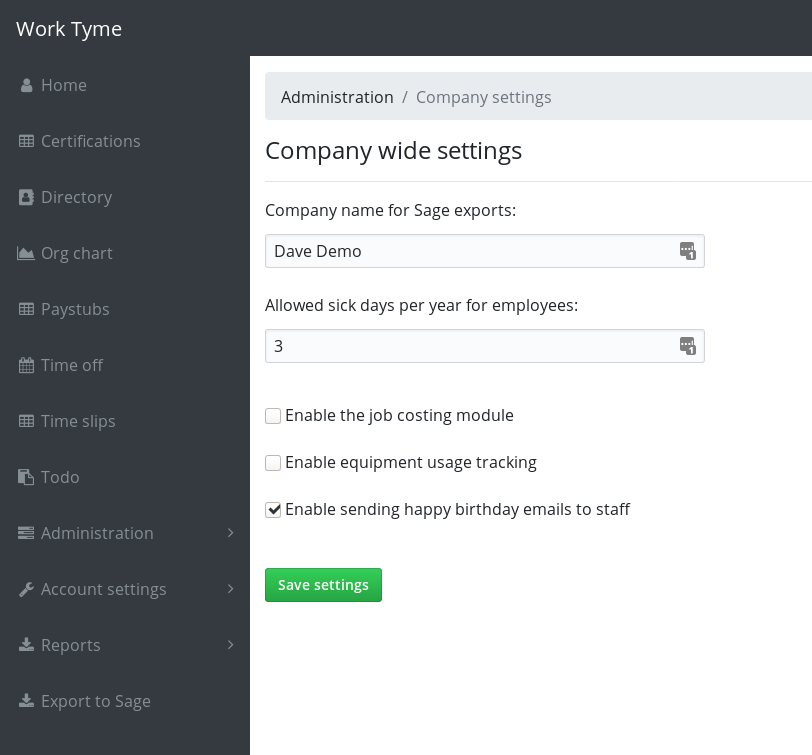
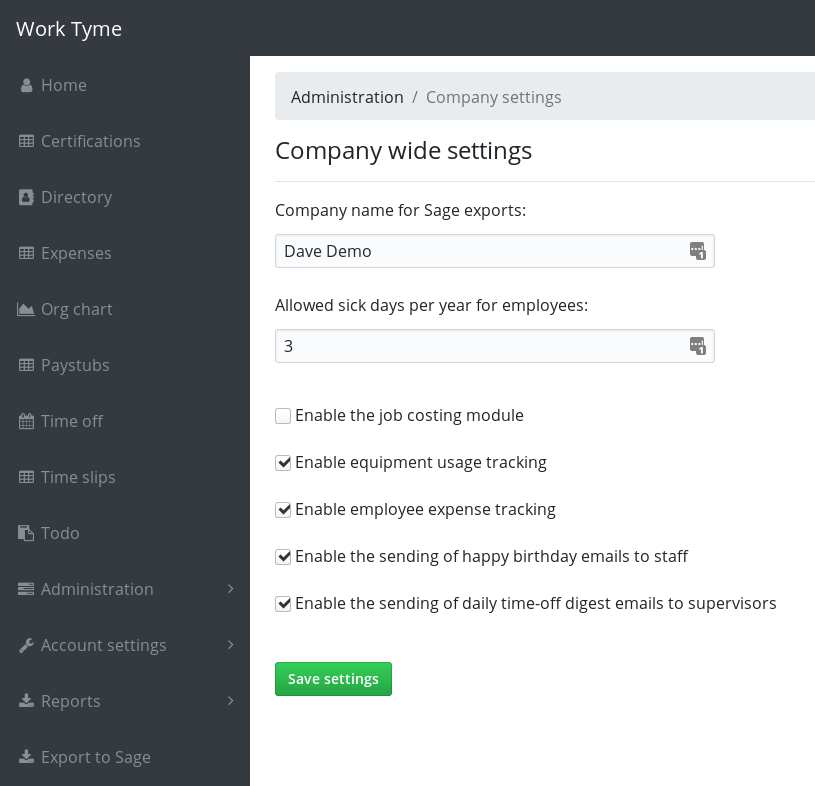
daily time-off digest emails to supervisors

diff --git a/content/docs/company_settings.md b/content/docs/company_settings.md
@@ -15,7 +15,9 @@ The company settings page can be thought of as way to set some general settings 
 * **Allowed sick days per year:** _The number of annual sick days your employees are entitled to. They will still be able to request more that this amount in a year. It is up to their manager if they wish to approve/deny additional sick days_
 * **Enable job costing:** _If you wish to make use of the built-in [job costing]({{< relref "/docs/job_costing.md" >}}) module check this box_
 * **Enable equipment usage tracking:** _If you wish to make use of the built-in [equipment usage tracking]({{< relref "/docs/equipment_usage_tracking.md" >}}) module check this box_
+* **Enable employee expense tracking:** _Coming soon..._
 * **Enable happy birthday emails:** _Since Work Tyme has all of your employee's birthdays we thought we could give you the option if you would like us to send a birthday greeting email to them on their birthdays. All the admins on your account will also be BBC'd on these emails so they can get a reminder when it is someone's birthday :)_
+* **Enable the sending of daily time-off digest emails to supervisors:** _When enabled Work Tyme will send out a digest every morning detailing any time off that is booked for the day. The alerts are sent to the employee's supervisor as well as anybody who has time off alerts enabled for the particular employee's department ( see the [advanced settings]({{< relref "/docs/employees.md" >}}#edit-an-employee) page for more information)._
 
 # Next steps
 
